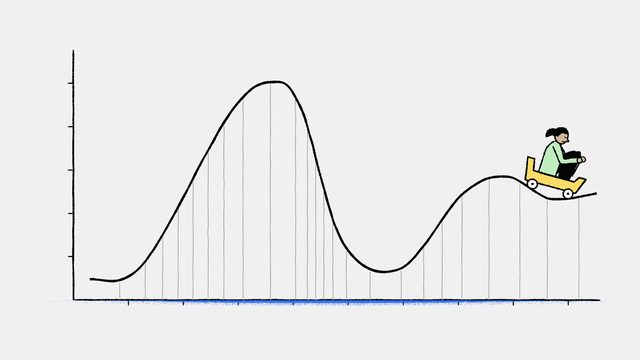
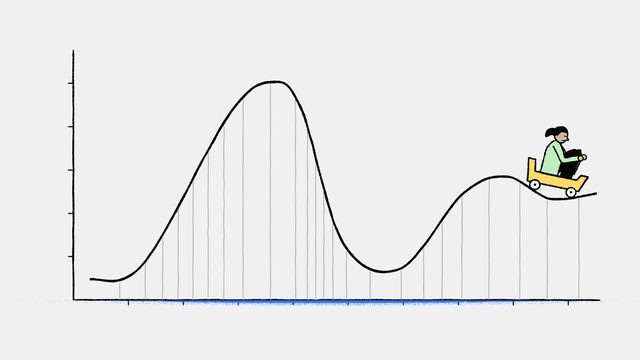
fix: 강체 카트의 앞바퀴 자리를 바퀴 간격이 맞도록 찾음
마지막 좁은 리뷰가 남은 결함 하나를 찾았다(전화기 든 팔, 말풍선 간격은 결함 없음으로 확인). 두 바퀴 중심을 각각 레일에서 띄운 자리는 맞았지만, 카트는 휘지 않아 두 중심 사이를 늘 바퀴 간격으로 그린다. 레일이 휘면 실제 두 점 사이가 89~126px로 달라져 그려진 바퀴가 레일을 따라 7~11px 밀렸고, 꼭대기 정지와 골짜기에서 4~6px 묻혔다.

뒷바퀴를 놓은 뒤 앞바퀴의 레일 위 자리를 이분법으로 찾아 두 중심 사이가 정확히 바퀴 간격이 되게 했다. 이 구성에서는 그려진 바퀴가 계산한 자리와 일치하므로 네 번째 리뷰는 받지 않았고, 꼭대기·스미어·골짜기·끝 네 시점을 렌더해 확인했다. 스미어 장은 늘어난 몸통이 휘는 레일을 가로지르지 않게 곧은 내리막 한가운데로 옮겼다.

Claude-Session: https://claude.ai/code/session_01SxpfByivEBBVomRBrmxUNB

Changed region(s): [[0.8125, 0.3361, 0.9375, 0.55]]

diff --git a/IBM/scenes/market/chart-rollercoaster-rider.html b/IBM/scenes/market/chart-rollercoaster-rider.html
@@ -8,7 +8,7 @@
 <script src="../../kit/figure.js"></script>
 <script>
 /* 차트 선을 레일 삼은 노란 카트가 딸깍딸깍 느리게 꼭대기까지 올라가 한참 멈췄다가, 한 장에 바닥까지 곤두박질치고 남은 힘으로 작은 언덕을 넘어 서자 탄 사람이 "…내려 주세요." 한다. 원본에 없는 창작 장면으로, 원본의 "긴 준비, 스미어 한 장, 긴 정지"와 3프레임 단위의 느린 연기를 주가 차트 은유로 옮겼다. 전달하는 생각: 오르는 데는 오래 걸리고 떨어지는 것은 한순간이다.
-   Motion notes: one locked shot, 7.5 s. The rail is the chart line itself (one ink stroke through 11 points) on two axes; the cart is placed by its two wheels: each wheel's centre is one radius off the curve along the curve's own normal at that wheel's arc length, and the body spans the line between the two centres, so both wheels roll on the line through every bend and the short overhangs clear a dip narrower than the cart. Climb 0.5-3.0 s on threes (8 fps), 21 drawings whose steps shrink toward the top (1 - (1 - u)^1.5), a tick mark flipping sides behind the wheel on every drawing: slow and countable is what climbing looks like. Three more drawings creep the last 24 px onto the crest, then the cart is dead still 0.63 s (3.38-4.0 s) while shake marks flicker for 4 drawings. The plunge is ONE drawing at 4.0 s: the cart two thirds of the way down, stretched 2.1x along the rail, four speed lines trailing, arms already up. On the next drawing it is at the lowest point of the dip with a four-line burst for 2 drawings, then it runs on twos: up the small hill in 6 drawings (outQuad), over and along to the end in 8 (inOutQuad), stopped at 5.25 s. The bubble shows 6.0-6.75 s over a still pose and leaves on a hard cut; from then only the rider's head rocks, two drawings alternating on threes. The climb's beats are on the threes grid (eighths of a second); it hands over to twos at 4.0 s, which is on both grids. The cart is rigid and turns with the rail's slope; the rider is drawn inside the cart's turned frame, so the body tips with it. Two colours: the yellow cart, the mint top. */
+   Motion notes: one locked shot, 7.5 s. The rail is the chart line itself (one ink stroke through 11 points) on two axes; the cart is rigid and is placed by its two wheels: the rear wheel's centre is one radius off the curve along the curve's normal, and the front wheel's place on the curve is searched (bisection) until its centre, set off the same way, is exactly one wheelbase from the rear one. The body spans the line between the two centres, so both drawn wheels touch the line through every bend. Climb 0.5-3.0 s on threes (8 fps), 21 drawings whose steps shrink toward the top (1 - (1 - u)^1.5), a tick mark flipping sides behind the wheel on every drawing: slow and countable is what climbing looks like. Three more drawings creep the last 24 px onto the crest, then the cart is dead still 0.63 s (3.38-4.0 s) while shake marks flicker for 4 drawings. The plunge is ONE drawing at 4.0 s: the cart halfway down, where the rail is straight enough to take its length, stretched 2.1x along the rail, four speed lines trailing, arms already up. On the next drawing it is at the lowest point of the dip with a four-line burst for 2 drawings, then it runs on twos: up the small hill in 6 drawings (outQuad), over and along to the end in 8 (inOutQuad), stopped at 5.25 s. The bubble shows 6.0-6.75 s over a still pose and leaves on a hard cut; from then only the rider's head rocks, two drawings alternating on threes. The climb's beats are on the threes grid (eighths of a second); it hands over to twos at 4.0 s, which is on both grids. The cart is rigid and turns with the rail's slope; the rider is drawn inside the cart's turned frame, so the body tips with it. Two colours: the yellow cart, the mint top. */
 const { lerp, clamp } = MG;
 const C = IB.C, F = IB.FIG, AX = 220, BASE = 900;
 const P = [[270, 838], [430, 792], [690, 340], [820, 246], [905, 330], [1030, 730], [1200, 806], [1390, 580], [1520, 530], [1650, 596], [1790, 580]];
@@ -43,7 +43,7 @@ function ride(t) {
     return { s: S(3) - 24 + 8 * Math.min(3, k - 20), mood: 'scared', shake: Math.round((t2 - 3.5) * 12) };
   }
   const k = Math.round((t2 - T(49)) * 12);
-  if (k < 0) return { s: lerp(S(3), BOTTOM, 0.66), mood: 'drop', smear: true };
+  if (k < 0) return { s: lerp(S(3), BOTTOM, 0.5), mood: 'drop', smear: true };
   if (k === 0) return { s: BOTTOM, mood: 'drop', thud: 0 };
   if (k <= 6) return { s: lerp(BOTTOM, S(8), MG.ease.outQuad(k / 6)), mood: 'drop', thud: k === 1 ? 1 : null };
   if (k < 14) return { s: lerp(S(8), END, MG.ease.inOutQuad((k - 6) / 8)), mood: 'dizzy' };
@@ -53,7 +53,11 @@ function ride(t) {
 function cart(ctx, r, stretch) {
   // each wheel's centre sits one radius (plus half the rail's thickness) off the rail along the rail's normal there, 40 K behind s and 42 K ahead; the cart hangs between the two centres
   const R = 11 * K + 2.75, off = (q) => [q.p[0] + Math.sin(q.a) * R, q.p[1] - Math.cos(q.a) * R];
-  const rear = off(railAt(r.s - 40 * K * stretch)), front = off(railAt(r.s + 42 * K * stretch)), a = Math.atan2(front[1] - rear[1], front[0] - rear[0]), h = WHO.h;
+  const base = 82 * K * stretch, sr = r.s - 40 * K * stretch, rear = off(railAt(sr));
+  // the cart does not bend: find where on the rail the front wheel has to be for the two centres to be one wheelbase apart
+  let lo = sr + base * 0.5, hi = sr + base * 1.6;
+  for (let i = 0; i < 22; i++) { const mid = (lo + hi) / 2, q = off(railAt(mid)); if (Math.hypot(q[0] - rear[0], q[1] - rear[1]) < base) lo = mid; else hi = mid; }
+  const front = off(railAt((lo + hi) / 2)), a = Math.atan2(front[1] - rear[1], front[0] - rear[0]), h = WHO.h;
   const p = [lerp(rear[0], front[0], 40 / 82) - Math.sin(a) * 11 * K, lerp(rear[1], front[1], 40 / 82) + Math.cos(a) * 11 * K];
   ctx.save();
   ctx.translate(p[0], p[1]); ctx.rotate(a); ctx.scale(stretch * K, K);
